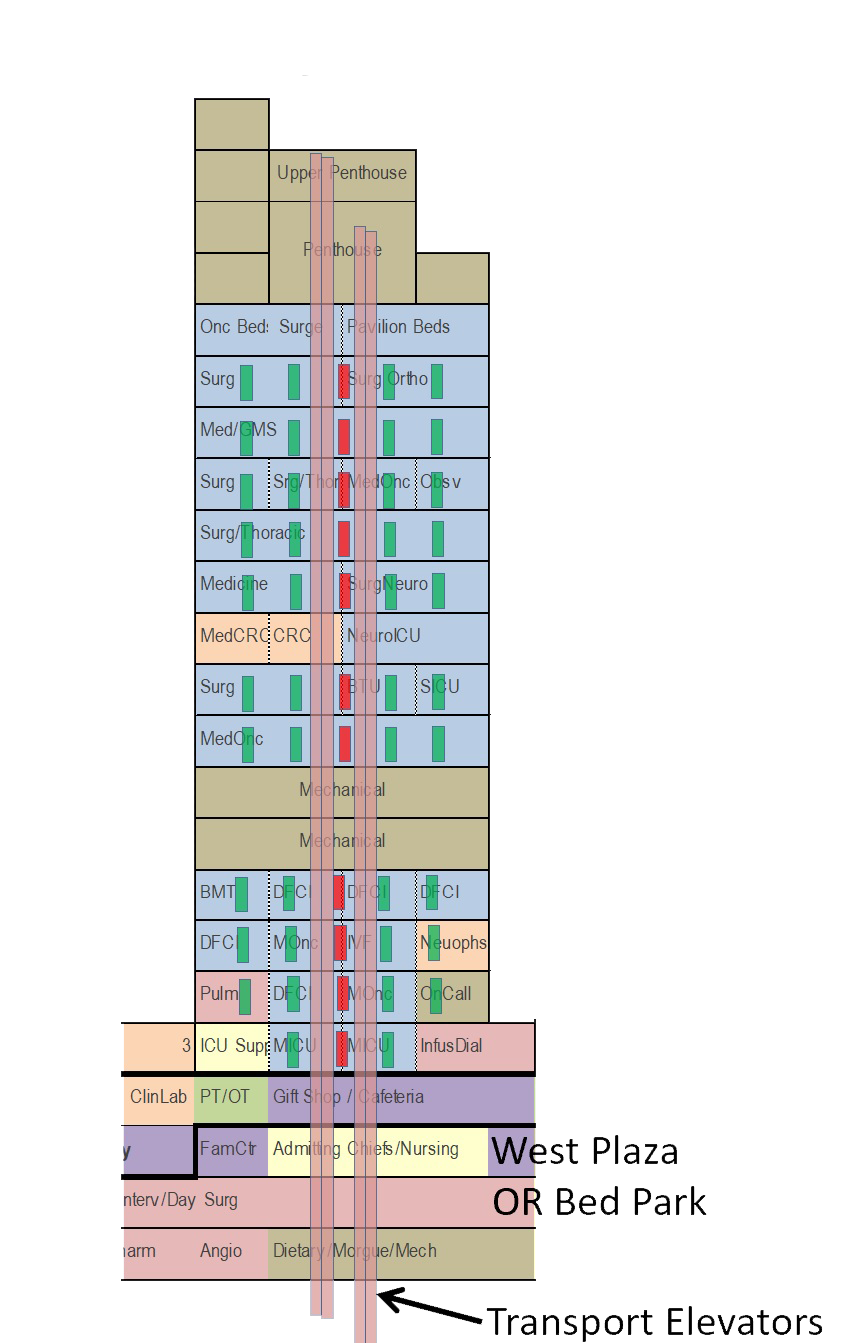
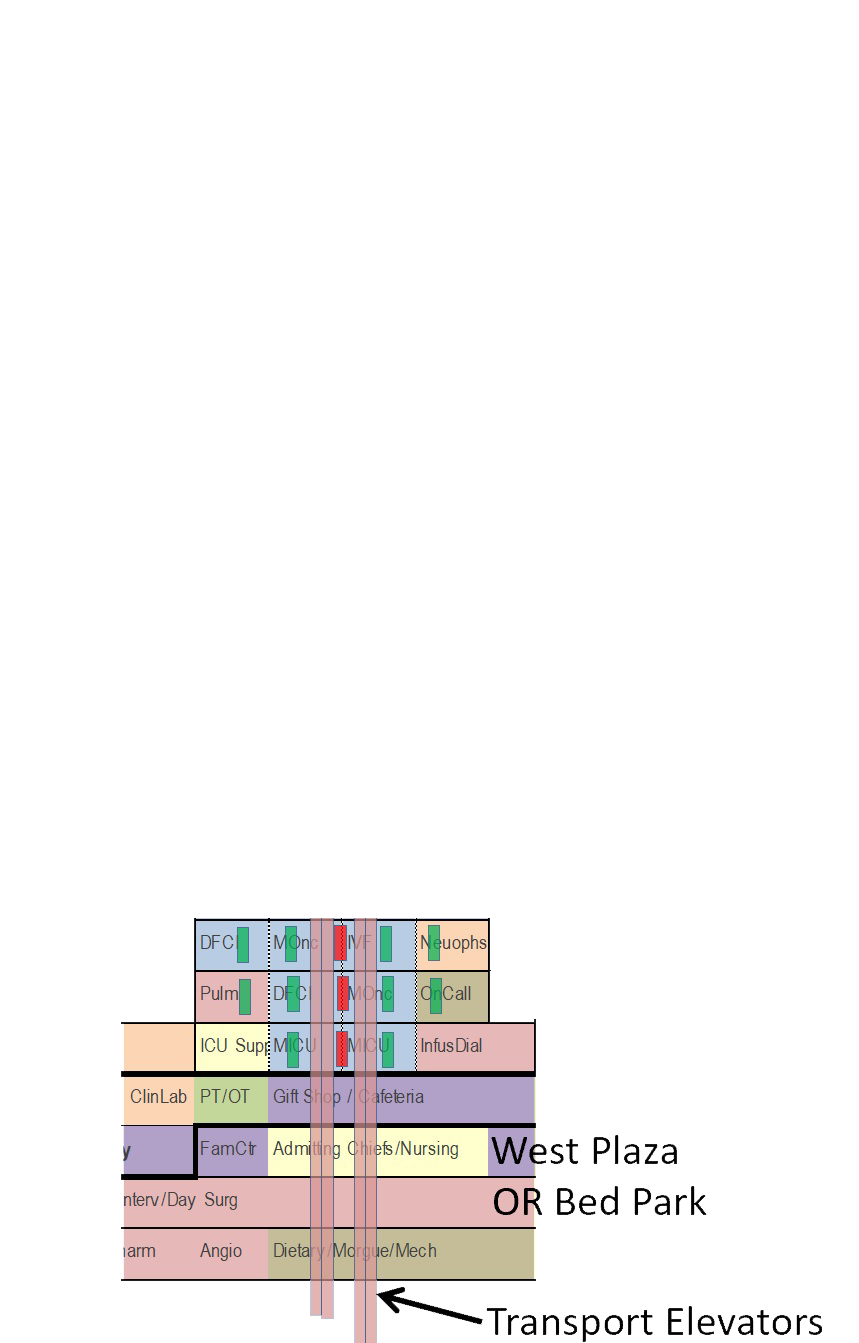
new map dashboard

Changed region(s): [[0.2119, 0.0611, 0.5751, 0.7022]]

diff --git a/src/main/java/edu/wpi/agileAngels/DashboardController.java b/src/main/java/edu/wpi/agileAngels/DashboardController.java
@@ -1,52 +1,22 @@
 package edu.wpi.agileAngels;
 
-import java.awt.event.ActionEvent;
+import java.io.IOException;
 import java.net.URL;
+import java.util.ArrayList;
 import java.util.ResourceBundle;
-
+import javafx.event.ActionEvent;
 import javafx.fxml.FXML;
 import javafx.fxml.Initializable;
 import javafx.scene.control.Button;
+import javafx.scene.input.MouseEvent;
 import javafx.scene.layout.Pane;
 
 public class DashboardController extends MainController implements Initializable {
 
-  @FXML public Button dash1, dash2, dash3, dash4, dash5, dashL1, dashL2;
-  @FXML
-  public Pane stackDash5, stackDash4, stackDash3, stackDash2, stackDash1, stackDashL1, stackDashL2;
+  @FXML Button dash1, dash2, dash3, dash4, dash5, dashL1, dashL2;
+  @FXML Pane stackDash5, stackDash4, stackDash3, stackDash2, stackDash1, stackDashL1, stackDashL2;
 
-
-
-  public void swapFloorDash(ActionEvent event) {
-
-    if (event.getSource() == dash1) {
-      stackDash1.setVisible(true);
-    }
-
-    if (event.getSource() == dash2) {
-      stackDash2.setVisible(true);
-    }
-
-    if (event.getSource() == dash3) {
-      stackDash3.setVisible(true);
-    }
-
-    if (event.getSource() == dash4) {
-      stackDash4.setVisible(true);
-    }
-
-    if (event.getSource() == dash5) {
-      stackDash5.setVisible(true);
-    }
-
-    if (event.getSource() == dashL1) {
-      stackDashL1.setVisible(true);
-    }
-
-    if (event.getSource() == dashL2) {
-      stackDashL2.setVisible(true);
-    }
-  }
+  ArrayList<Pane> panes = new ArrayList<>();
 
   @Override
   public void initialize(URL location, ResourceBundle resources) {
@@ -57,5 +27,128 @@ public class DashboardController extends MainController implements Initializable
     stackDash5.setVisible(false);
     stackDashL1.setVisible(false);
     stackDashL2.setVisible(false);
+  }
+
+  public void swapFloorDash(MouseEvent event) {
+
+    panes.add(stackDash1);
+    panes.add(stackDash2);
+    panes.add(stackDash3);
+    panes.add(stackDash4);
+    panes.add(stackDash5);
+    panes.add(stackDashL1);
+    panes.add(stackDashL2);
+
+    if (event.getSource() == dash1) {
+      for (Pane pane : panes) {
+        if (pane == stackDash1) {
+          pane.setVisible(true);
+        } else {
+          pane.setVisible(false);
+        }
+      }
+    }
+
+    if (event.getSource() == dash2) {
+      for (Pane pane : panes) {
+        if (pane == stackDash2) {
+          pane.setVisible(true);
+        } else {
+          pane.setVisible(false);
+        }
+      }
+    }
+
+    if (event.getSource() == dash3) {
+      for (Pane pane : panes) {
+        if (pane == stackDash3) {
+          pane.setVisible(true);
+        } else {
+          pane.setVisible(false);
+        }
+      }
+    }
+
+    if (event.getSource() == dash4) {
+      for (Pane pane : panes) {
+        if (pane == stackDash4) {
+          pane.setVisible(true);
+        } else {
+          pane.setVisible(false);
+        }
+      }
+    }
+
+    if (event.getSource() == dash5) {
+      for (Pane pane : panes) {
+        if (pane == stackDash5) {
+          pane.setVisible(true);
+        } else {
+          pane.setVisible(false);
+        }
+      }
+    }
+
+    if (event.getSource() == dashL1) {
+      for (Pane pane : panes) {
+        if (pane == stackDashL1) {
+          pane.setVisible(true);
+        } else {
+          pane.setVisible(false);
+        }
+      }
+    }
+
+    if (event.getSource() == dashL2) {
+      for (Pane pane : panes) {
+        if (pane == stackDashL2) {
+          pane.setVisible(true);
+        } else {
+          pane.setVisible(false);
+        }
+      }
+    }
+  }
+
+  public void unhover(MouseEvent event) {
+    stackDash1.setVisible(false);
+    stackDash2.setVisible(false);
+    stackDash3.setVisible(false);
+    stackDash4.setVisible(false);
+    stackDash5.setVisible(false);
+    stackDashL1.setVisible(false);
+    stackDashL2.setVisible(false);
+  }
+
+  @FXML
+  public void loadFloorMap(ActionEvent event) throws IOException {
+
+    if (event.getSource() == dash1) {
+      loadPage("views/map-view.fxml", dash1);
+    }
+
+    if (event.getSource() == dash2) {
+      loadPage("views/map-view.fxml", dash2);
+    }
+
+    if (event.getSource() == dash3) {
+      loadPage("views/map-view.fxml", dash3);
+    }
+
+    if (event.getSource() == dash4) {
+      loadPage("views/map-view.fxml", dash4);
+    }
+
+    if (event.getSource() == dash5) {
+      loadPage("views/map-view.fxml", dash5);
+    }
+
+    if (event.getSource() == dashL1) {
+      loadPage("views/map-view.fxml", dashL1);
+    }
+
+    if (event.getSource() == dashL2) {
+      loadPage("views/map-view.fxml", dashL2);
+    }
   }
 }

diff --git a/src/main/java/edu/wpi/agileAngels/HomeController.java b/src/main/java/edu/wpi/agileAngels/HomeController.java
@@ -15,7 +15,7 @@ public class HomeController extends MainController {
     if (event.getSource() == serviceButton) {
       loadPage("views/serviceRequest-view.fxml", serviceButton);
     } else if (event.getSource() == mapButton) {
-      loadPage("views/map-view.fxml", mapButton);
+      loadPage("views/dashboard-view.fxml", mapButton);
     }
   }
 }
